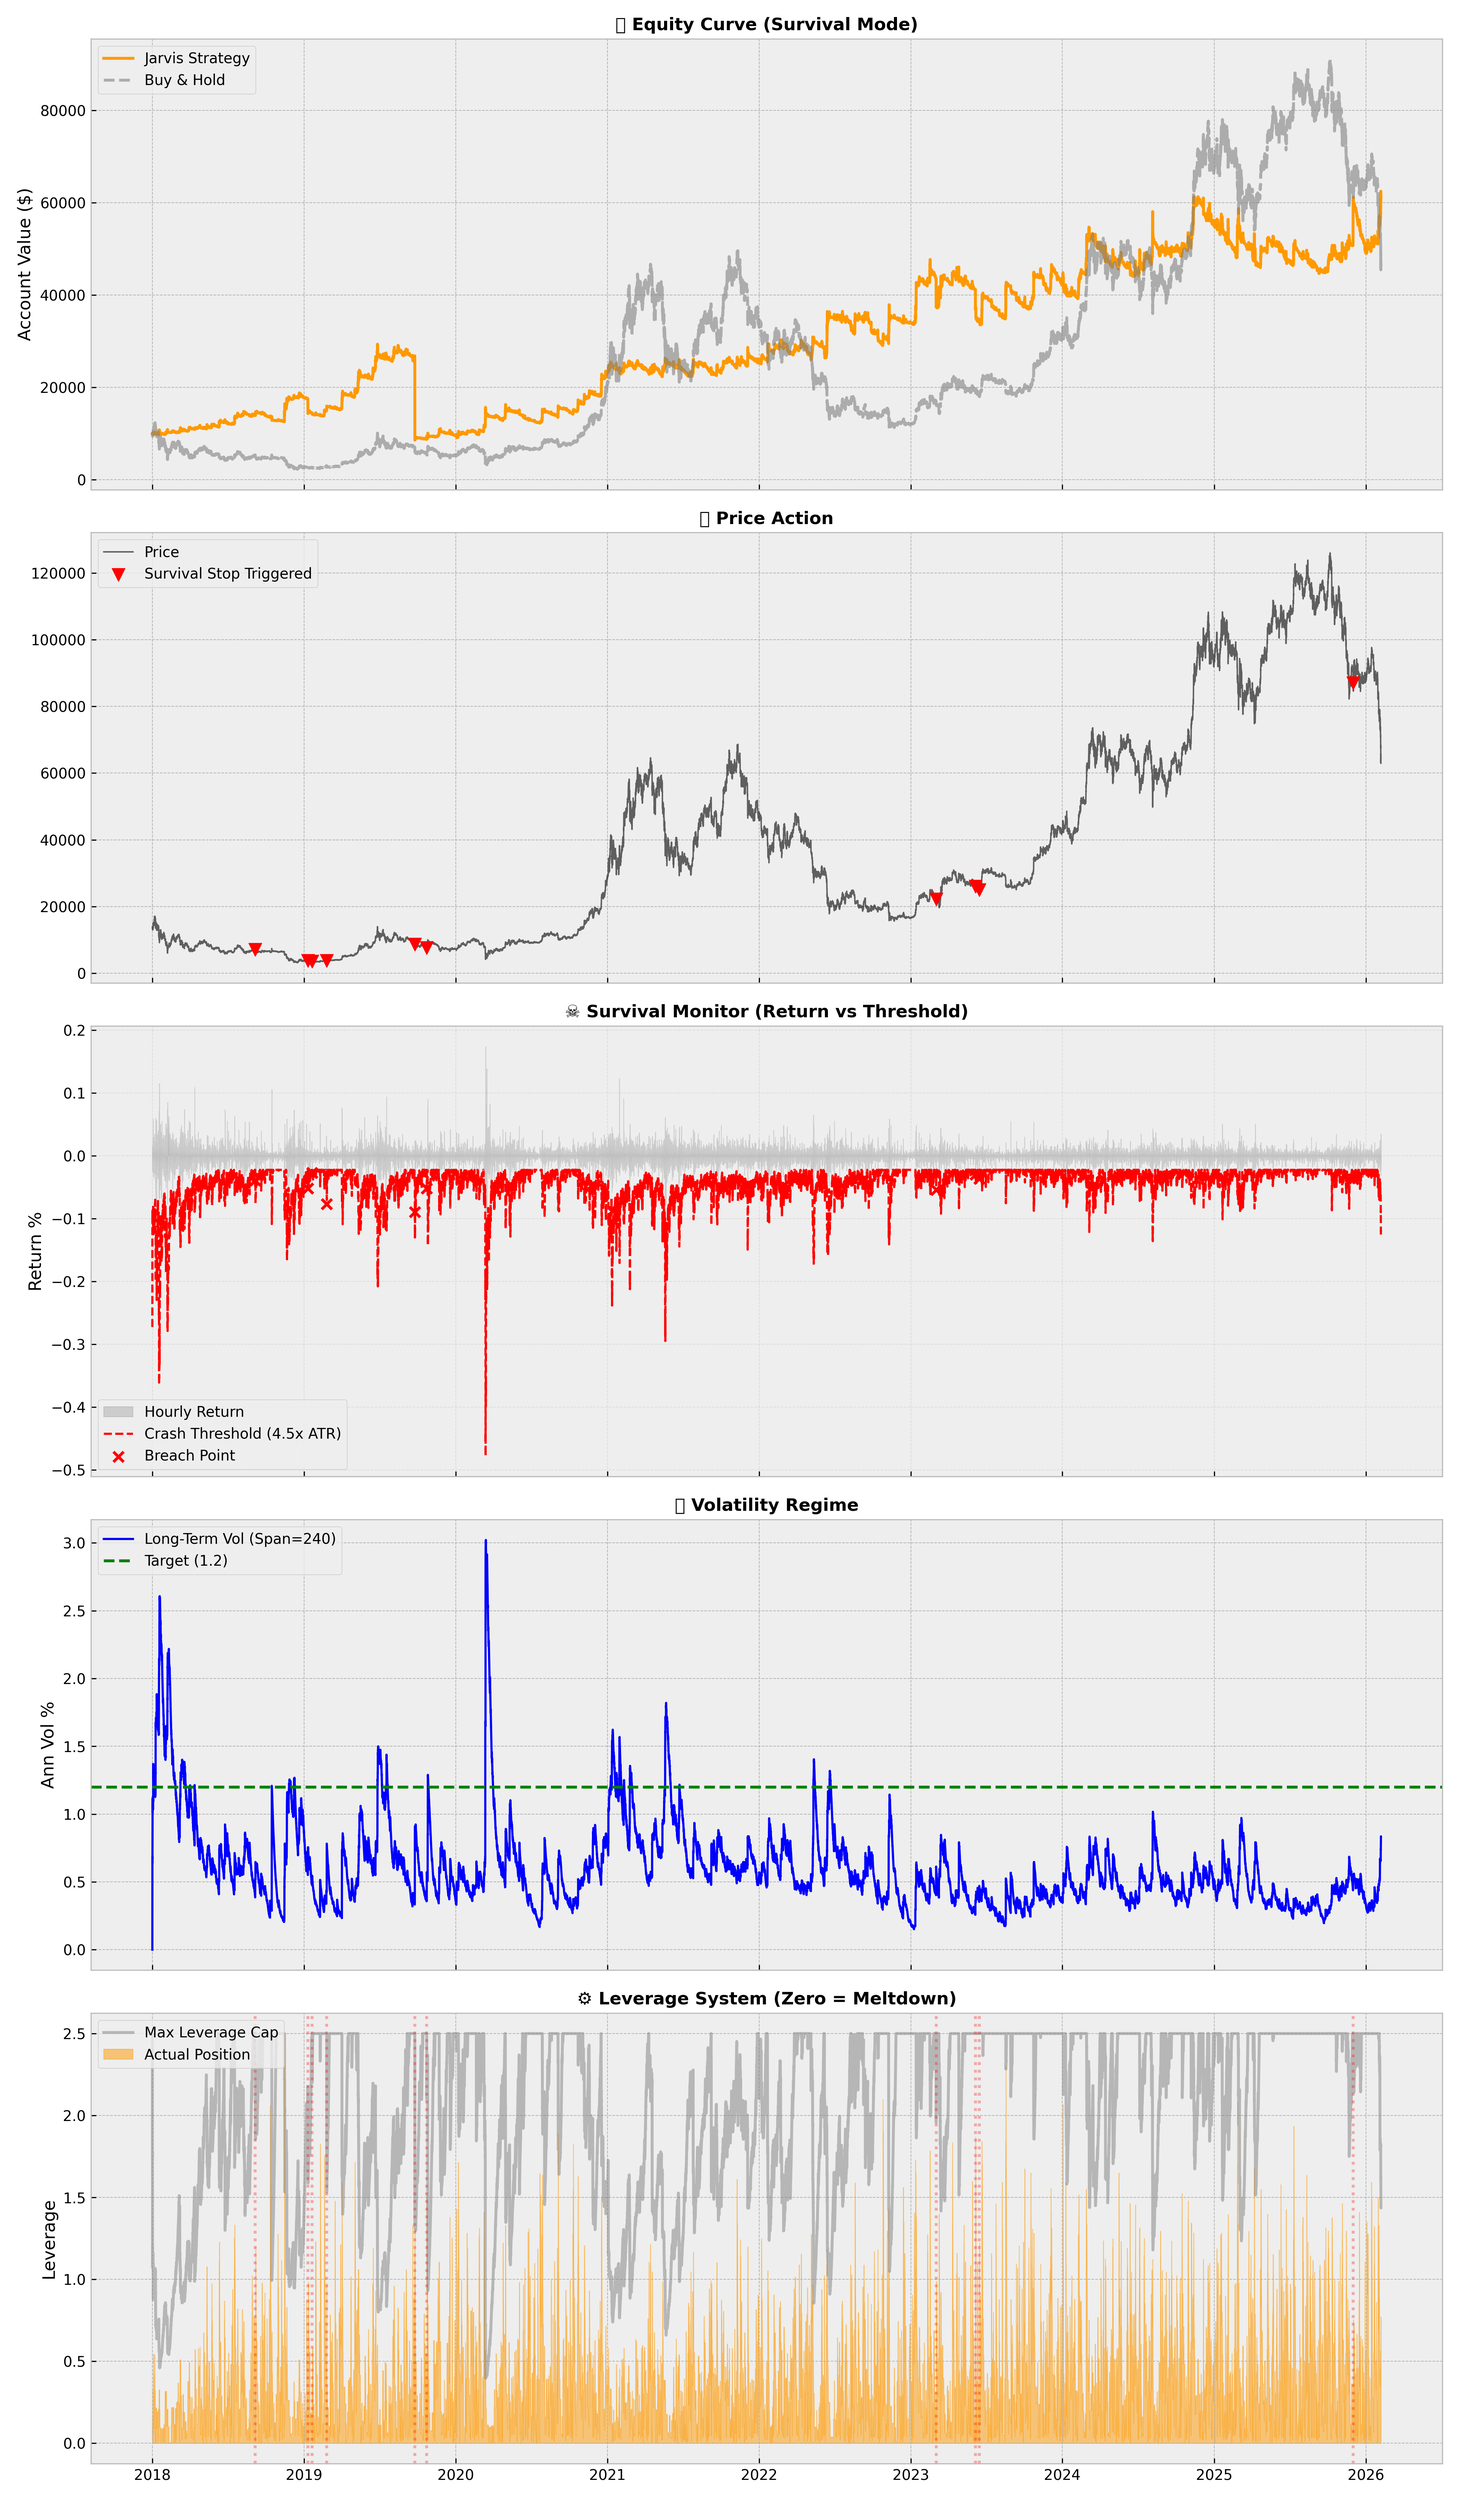
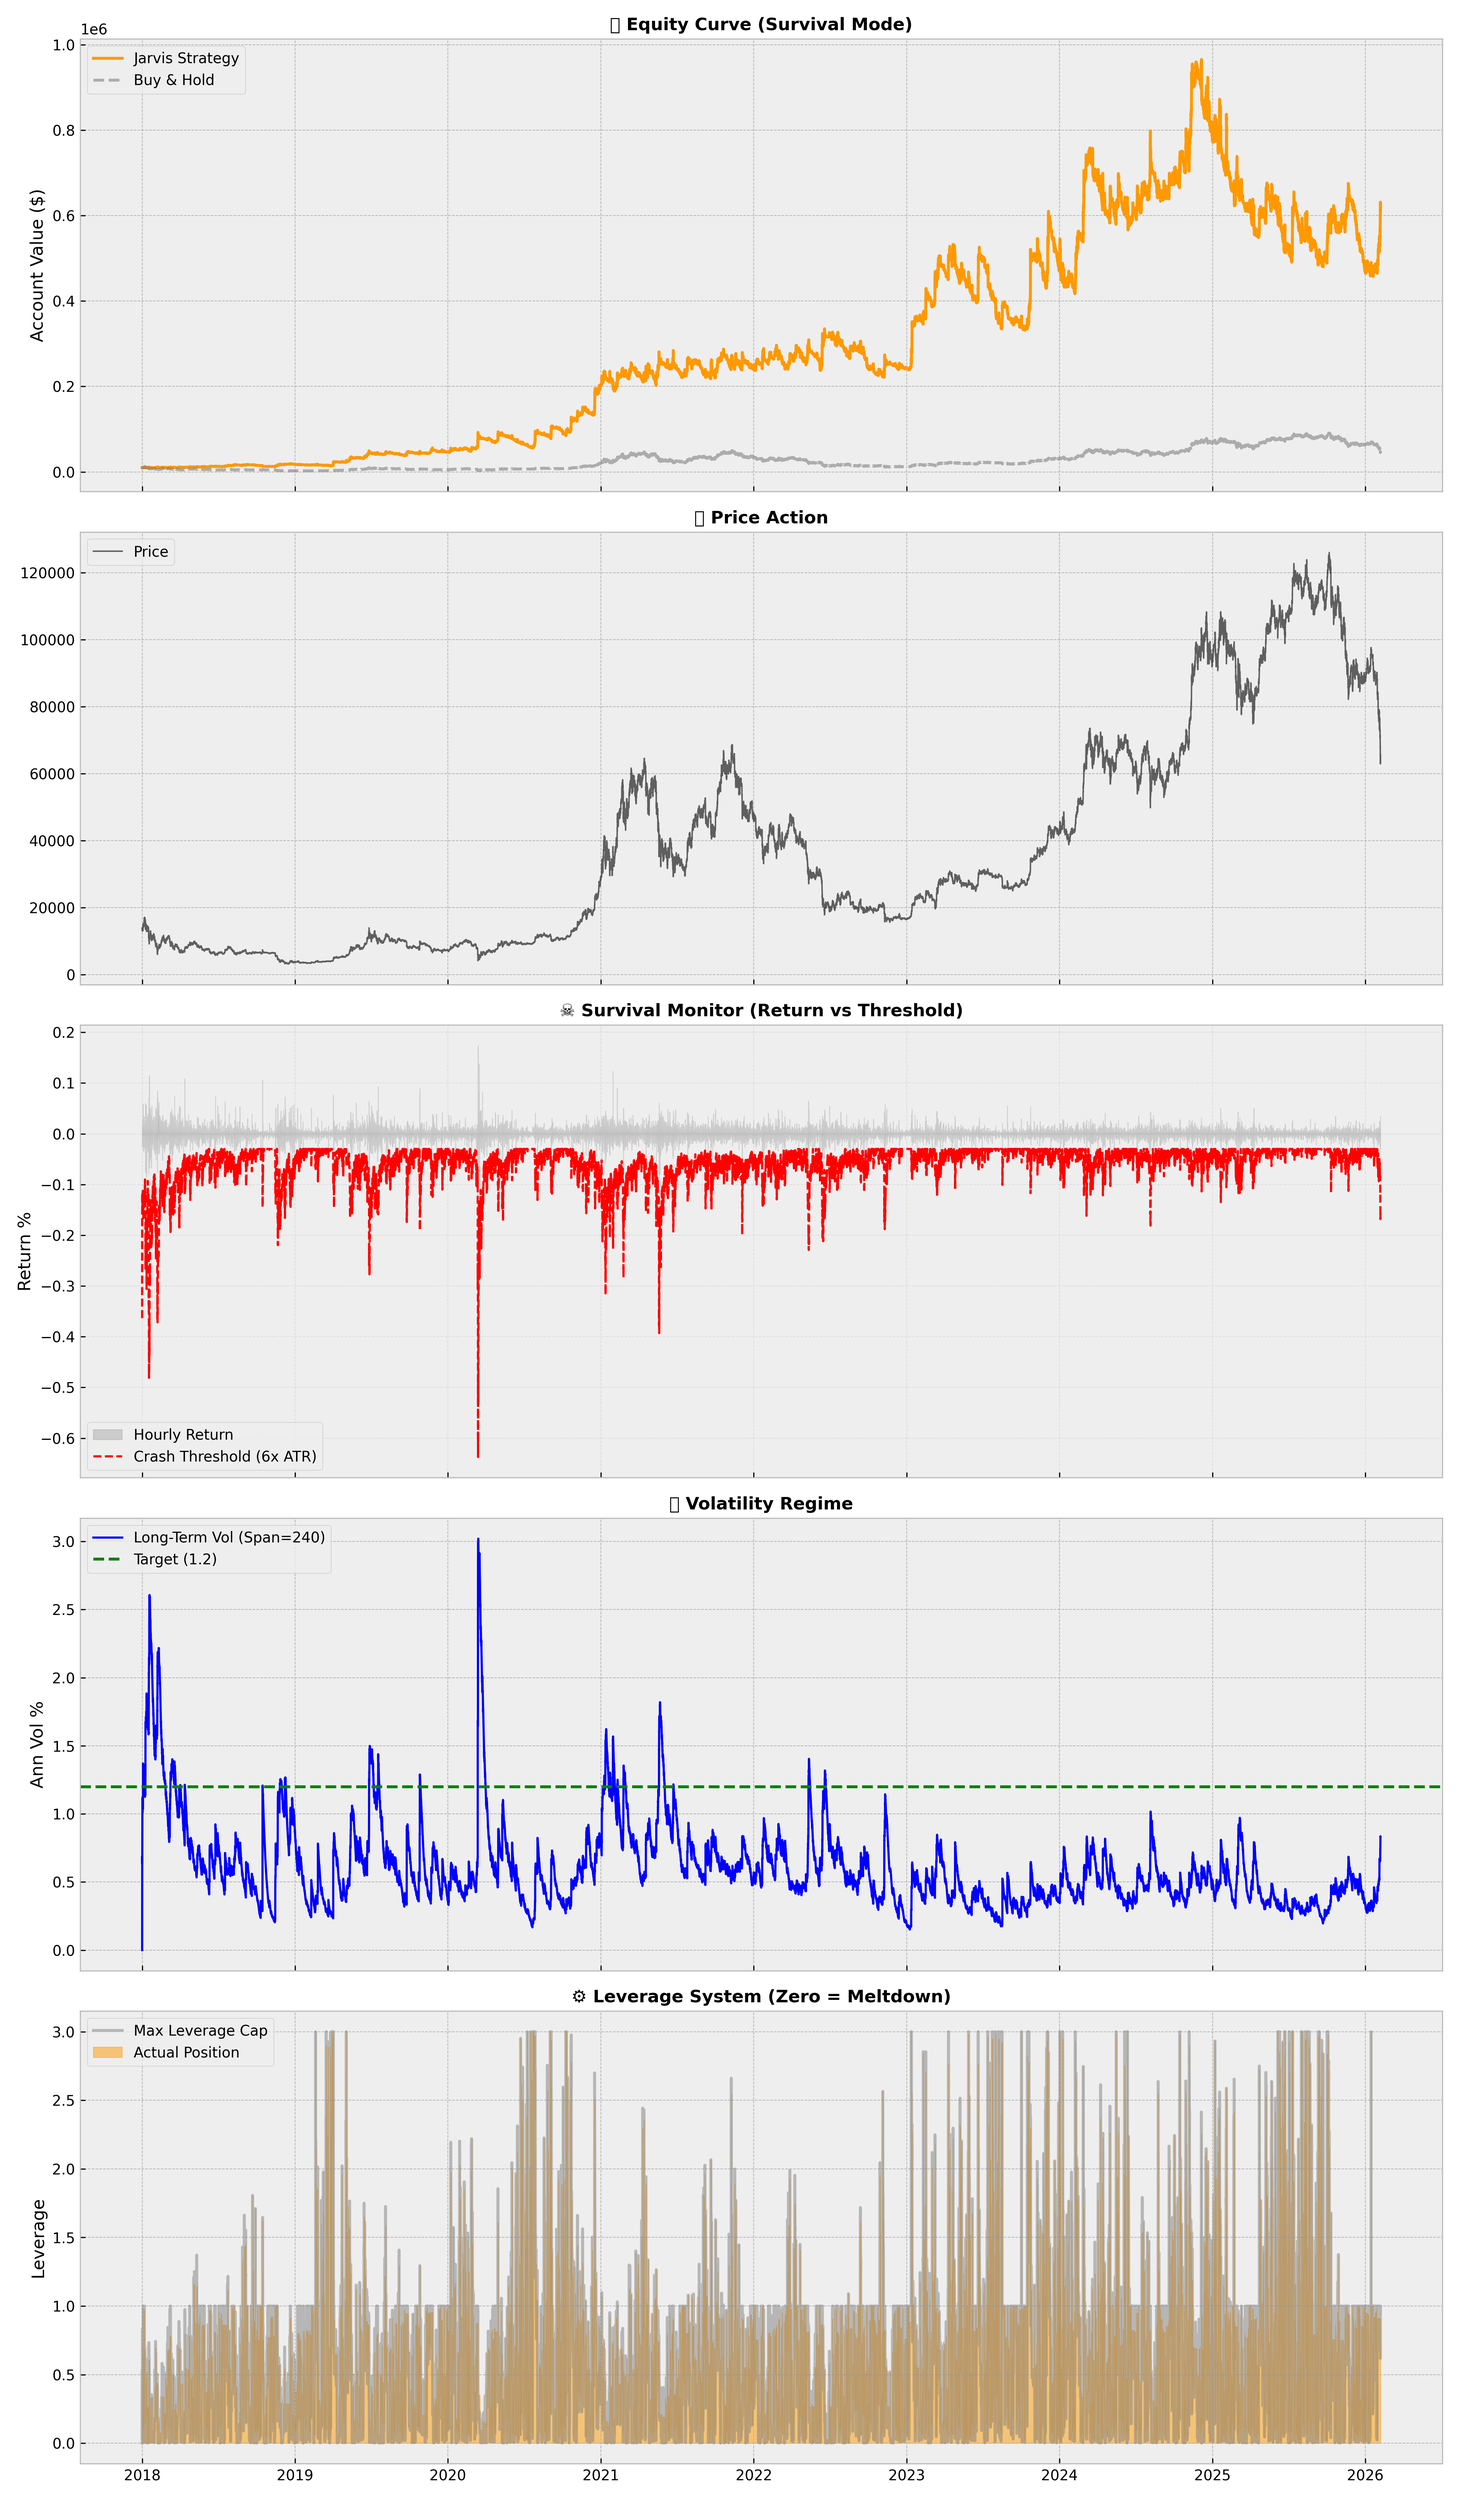
1

diff --git a/jarvis_engine/alpha.py b/jarvis_engine/alpha.py
@@ -38,61 +38,112 @@ def load_price_data(csv_path: str) -> pd.DataFrame:
 
 def calculate_scaled_forecast(df: pd.DataFrame) -> pd.DataFrame:
     """
-    原始信号生成器
+    [V4.3 The Silence Protocol] 深度平滑混合信号
+    --------------------------------------------
+    1. Trend: 保持不变
+    2. RSI: 实施 "Soft Deadzone" + "Deep Smoothing"，消除跳变。
     """
     data = df.copy()
     
-    # 长期波动率 (用于信号归一化)
+    # --- 1. 基础数据准备 ---
     vol_span = getattr(Config, 'VOL_LOOKBACK', 480) 
     data['volatility'] = data['close'].ewm(span=vol_span).std().replace(0, np.nan).fillna(method='ffill') + 1e-8
     
+    # --- 2. 计算趋势信号 (Trend Component) ---
     fast_spans = Config.STRATEGY_PARAMS['fast_span']
     slow_spans = Config.STRATEGY_PARAMS['slow_span']
     scalars = Config.STRATEGY_PARAMS['scalars']
-    weights = Config.WEIGHTS
+    weights = getattr(Config, 'TREND_INTERNAL_WEIGHTS', [0.25, 0.25, 0.25, 0.25])
     
     forecast_cols = []
     for i in range(len(fast_spans)):
         fast, slow, scalar = fast_spans[i], slow_spans[i], scalars[i]
         raw = data['close'].ewm(span=fast).mean() - data['close'].ewm(span=slow).mean()
         col = f'fc_{fast}_{slow}'
-        # 信号归一化
         data[col] = (raw * scalar) / data['volatility']
         forecast_cols.append(col)
 
-    combined = data[forecast_cols].mul(weights).sum(axis=1)
-    data['forecast'] = combined.clip(-20, 20).fillna(0)
+    trend_forecast = data[forecast_cols].mul(weights).sum(axis=1)
+    
+    # --- 3. [V4.3] 深度平滑版 RSI 反转信号 ---
+    rsi_period = getattr(Config, 'RSI_PERIOD', 14)
+    delta = data['close'].diff()
+    gain = (delta.where(delta > 0, 0)).ewm(alpha=1/rsi_period, adjust=False).mean()
+    loss = (-delta.where(delta < 0, 0)).ewm(alpha=1/rsi_period, adjust=False).mean()
+    rs = gain / loss
+    raw_rsi = 100 - (100 / (1 + rs))
+    
+    # [V4.3 优化 A] 加强输入平滑 (3 -> 12小时)
+    # 彻底过滤掉短期的 RSI 噪点
+    smooth_rsi = raw_rsi.rolling(window=12).mean().fillna(50)
+    
+    rsi_diff = 50 - smooth_rsi
+    rsi_scalar = getattr(Config, 'RSI_SCALAR', 1.0)
+    
+    # [V4.3 优化 B] 软死区逻辑 (Soft Deadzone)
+    # 替换之前的 np.where 硬截断。
+    # 逻辑: 当 abs(diff) <= 10 时，输出 0。
+    #       当 abs(diff) > 10 时，输出 (abs(diff) - 10) * sign。
+    # 效果: 信号从 0 线性爬升，不再突变，解决 Buffer 频繁触发问题。
+    # 修复: np.maximum 和 np.sign 返回的是 Series，不会报 ndarray 错误。
+    rsi_forecast = np.sign(rsi_diff) * np.maximum(0, rsi_diff.abs() - 10) * rsi_scalar
+    
+    # [V4.3 优化 C] 输出信号再次平滑
+    # 对最终生成的 Forecast 再做一次 EMA，确保曲线像丝绸一样顺滑
+    rsi_forecast = rsi_forecast.ewm(span=24).mean()
+    
+    # --- 4. 信号融合 ---
+    # 使用配置的权重，默认倾向于趋势 (0.9/0.1 or 0.8/0.2)
+    w_trend = getattr(Config, 'TREND_WEIGHT', 0.9)
+    w_rsi = getattr(Config, 'RSI_WEIGHT', 0.1)
+    
+    data['trend_forecast'] = trend_forecast.clip(-20, 20).fillna(0)
+    data['rsi_forecast'] = rsi_forecast.clip(-20, 20).fillna(0)
+    
+    # 混合输出
+    data['forecast'] = (data['trend_forecast'] * w_trend + data['rsi_forecast'] * w_rsi)
     
     return data
 
 def calculate_position_target(df: pd.DataFrame, forecast_col='forecast', buffer=0.1) -> pd.DataFrame:
     """
-    [Risk Engine V3.7] 信号增强版
+    [Risk Engine V4.0] 环境感知型风控 (保持不变)
+    Regime Filter + Vol Scaling + Survival Stop
     """
     data = df.copy()
     
-    # 1. 波动率目标管理
+    # --- 1. 环境过滤器 (Regime Filter) ---
+    ma_window = getattr(Config, 'REGIME_MA_WINDOW', 4800)
+    regime_ma = data['close'].rolling(window=ma_window).mean()
+    is_bull_regime = data['close'] > regime_ma
+    
+    # 动态杠杆上限
+    normal_cap = getattr(Config, 'MAX_LEVERAGE', 2.5)      
+    bear_cap = getattr(Config, 'BEAR_MODE_MAX_LEVERAGE', 1.0) 
+    
+    dynamic_max_cap = np.where(is_bull_regime, normal_cap, bear_cap)
+    data['regime_ma'] = regime_ma 
+    data['dynamic_max_cap'] = dynamic_max_cap
+    
+    # --- 2. 波动率目标管理 (Vol Scaling) ---
     hourly_ret = data['close'].pct_change().fillna(0)
     long_term_vol = hourly_ret.ewm(span=Config.VOL_LOOKBACK).std().fillna(0)
     ann_vol_pct = long_term_vol * np.sqrt(365 * 24)
     data['ann_vol_pct'] = ann_vol_pct
     
     safe_vol = ann_vol_pct.replace(0, 1e-6)
-    leverage_ratio = (Config.TARGET_VOLATILITY / safe_vol).clip(upper=Config.MAX_LEVERAGE)
-    data['leverage_ratio'] = leverage_ratio
+    target_vol = getattr(Config, 'TARGET_VOLATILITY', 0.8)
+    raw_leverage_ratio = (target_vol / safe_vol)
     
-    # ==========================================
-    # 2. [V3.7 Update] 信号增强 (Signal Boosting)
-    # ==========================================
-    # 旧逻辑: / 20.0 (过于保守，导致平均杠杆极低)
-    # 新逻辑: / 10.0 (将 Forecast=10 视为满确信度)
-    # 效果: 在同等预测值下，基础仓位翻倍，显著提高资金利用率
-    ideal_position = (data[forecast_col] / 5.0) * leverage_ratio
+    # --- 3. 仓位计算 ---
+    # [V3.7] 信号增强: / 10.0
+    ideal_position = (data[forecast_col] / 2.0) * raw_leverage_ratio
     
-    # 硬性杠杆限制
-    ideal_position = ideal_position.clip(-Config.MAX_LEVERAGE, Config.MAX_LEVERAGE)
+    # [V4.0] 应用动态环境上限
+    ideal_position = ideal_position.clip(-dynamic_max_cap, dynamic_max_cap)
+    data['leverage_ratio'] = ideal_position.abs()
     
-    # 3. 灾难阻断器 (Survival Hard Stop)
+    # --- 4. 灾难阻断器 (Survival Hard Stop) [V3.3] ---
     h, l, c = data['high'], data['low'], data['close']
     pc = c.shift(1).fillna(c)
     tr = np.maximum(h - l, np.maximum((h - pc).abs(), (l - pc).abs()))
@@ -108,14 +159,14 @@ def calculate_position_target(df: pd.DataFrame, forecast_col='forecast', buffer=
     
     is_crash = hourly_ret < -crash_threshold
     
-    # 触发熔断
+    # 熔断归零
     ideal_position = np.where(is_crash, 0.0, ideal_position)
     
     data['sl_threshold'] = crash_threshold
     data['sigma_event'] = is_crash
     data['is_meltdown'] = is_crash
     
-    # 4. 缓冲器
+    # --- 5. 缓冲器 (Buffer) ---
     ideal_values = ideal_position
     n = len(ideal_values)
     buffered_position = np.zeros(n)
@@ -149,9 +200,17 @@ def run_vectorized_backtest(df: pd.DataFrame, fee_rate=0.0005, funding_rate=0.00
         sl_values = data.loc[risk_mask, 'sl_threshold']
         prev_close = data.loc[risk_mask, 'close'].shift(1)
         open_price = data.loc[risk_mask, 'open']
+        close_price = data.loc[risk_mask, 'close'] # 获取坑底收盘价
         
-        stop_price = open_price * (1.0 - sl_values)
-        correction = np.log(stop_price / prev_close)
+        # [V4.7 核心修正] 拒绝完美成交
+        # 假设你无法在半山腰止损，如果价格砸穿了，你只能在 Close 成交
+        theoretical_stop = open_price * (1.0 - sl_values)
+        execution_price = np.minimum(theoretical_stop, close_price)
+        
+        # 额外增加 0.2% 的滑点，模拟恐慌性抛售的冲击成本
+        final_exit_price = execution_price * (1.0 - 0.002) 
+        
+        correction = np.log(final_exit_price / prev_close)
         correction = correction.fillna(adjusted_market_ret.loc[risk_mask])
         adjusted_market_ret.loc[risk_mask] = correction
         

diff --git a/main.py b/main.py
@@ -233,6 +233,7 @@ def calculate_drawdown_metrics(equity_series):
         
     return max_drawdown, calmar
 def calculate_trade_metrics(df_res):
+
     """
     [V3.7 Analytics] 交易维度统计
     将连续的持仓序列拆解为独立的 'Round-Trip' 交易进行统计。
@@ -319,6 +320,25 @@ def calculate_trade_metrics(df_res):
     else:
         print("⚠ 风格: 胜率与赔率需进一步平衡。")
     print("------------------------------------------\n")
+def calculate_performance_summary(equity_series, periods_per_year=24*365):
+    """
+    [V4.6] 计算年化收益与复合增长率
+    """
+    # 1. 计算总收益率
+    total_return = (equity_series.iloc[-1] / equity_series.iloc[0]) - 1.0
+    
+    # 2. 计算回测跨越的年数
+    # 数据点总数 / (每年的小时数)
+    n_days = len(equity_series) / 24
+    n_years = len(equity_series) / periods_per_year
+    
+    # 3. 计算年化收益率 (CAGR - 复合年均增长率)
+    if n_years > 0:
+        ann_return = (1 + total_return) ** (1 / n_years) - 1
+    else:
+        ann_return = np.nan
+        
+    return total_return, ann_return, n_days
 def mission_start():
     print("🚀 Jarvis System Initializing (V3.3 Visualization Upgrade + Leverage Stats)...")
     
@@ -353,12 +373,17 @@ def mission_start():
 
     final = df_res['equity'].iloc[-1]
     sharpe = (df_res['net_log_ret'].mean() / df_res['net_log_ret'].std()) * np.sqrt(365*24)
+    total_ret_strat, ann_ret_strat, n_days = calculate_performance_summary(df_res['equity'])
+    total_ret_bh, ann_ret_bh, _ = calculate_performance_summary(df_res['buy_hold_equity'])
     
+    mdd_strat, calmar_strat = calculate_drawdown_metrics(df_res['equity'])
     # [V3.5 New] Sortino Analysis
     print("\n📊 --- Performance Analytics ---")
     strat_sortino = calculate_sortino(df_res['net_log_ret'])
     btc_sortino = calculate_sortino(df_res['market_log_ret'])
-
+    print(f"🔹 Backtest Period : {n_days:.1f} Days ({n_days/365:.2f} Years)")
+    print(f"🔹 Total Return    : {total_ret_strat:.2%} (B&H: {total_ret_bh:.2%})")
+    print(f"🚀 Annualized Ret  : {ann_ret_strat:.2%} (B&H: {ann_ret_bh:.2%})")
     print(f"🏆 Final Equity: ${final:,.2f} (Initial: ${Config.INITIAL_CAPITAL})")
     print(f"📈 Sharpe Ratio : {sharpe:.2f}")
     

diff --git a/config.py b/config.py
@@ -44,26 +44,26 @@ class Config:
     
     # [C] 混合权重分配 (Signal Weights) [V4.0 New]
     # 趋势 70% (进攻), RSI 30% (防守/反转)
-    TREND_WEIGHT = 0.7
-    RSI_WEIGHT = 0.3
+    TREND_WEIGHT = 0.9
+    RSI_WEIGHT = 0.1
     # ==========================================
     # 3. 风险管理 (Risk Management)
     # ==========================================
     # A. 波动率目标制 (Vol Scaling) - 负责日常风控
     TARGET_VOLATILITY = 1.2
-    MAX_LEVERAGE = 2.5
+    MAX_LEVERAGE = 3
     
     # ------------------------------------------------
     # [B] 环境过滤器 (Regime Filter) [V4.0 New]
     # MA200 (日线) = 4800 (小时)
-    REGIME_MA_WINDOW = 4800
+    REGIME_MA_WINDOW = 2400
     # 熊市/猴市下的杠杆上限 (当 Price < MA200)
     # 开启保命模式，强制降杠杆
     BEAR_MODE_MAX_LEVERAGE = 1.0
     # 正常波动 (1x-3x ATR) 由波动率调仓自动处理，不触发硬止损。
     
     SURVIVAL_ATR_WINDOW = 24       # 快速感知崩盘 (1天)
-    SURVIVAL_ATR_MULTIPLIER = 4.5  # 极宽阈值 (约等于单小时暴跌 6%~10%)
+    SURVIVAL_ATR_MULTIPLIER = 6  # 极宽阈值 (约等于单小时暴跌 6%~10%)
     
     # 波动率地板 (防止死鱼行情误触，至少要跌够这个幅度才算崩盘)
     MIN_HOURLY_VOL = 0.005 
@@ -71,6 +71,6 @@ class Config:
     # ==========================================
     # 4. 回测仿真 (Simulation)
     # ==========================================
-    POSITION_BUFFER = 0.1 
+    POSITION_BUFFER = 0.25 
     FEE_RATE = 0.0005
     INITIAL_CAPITAL = 10000.0
